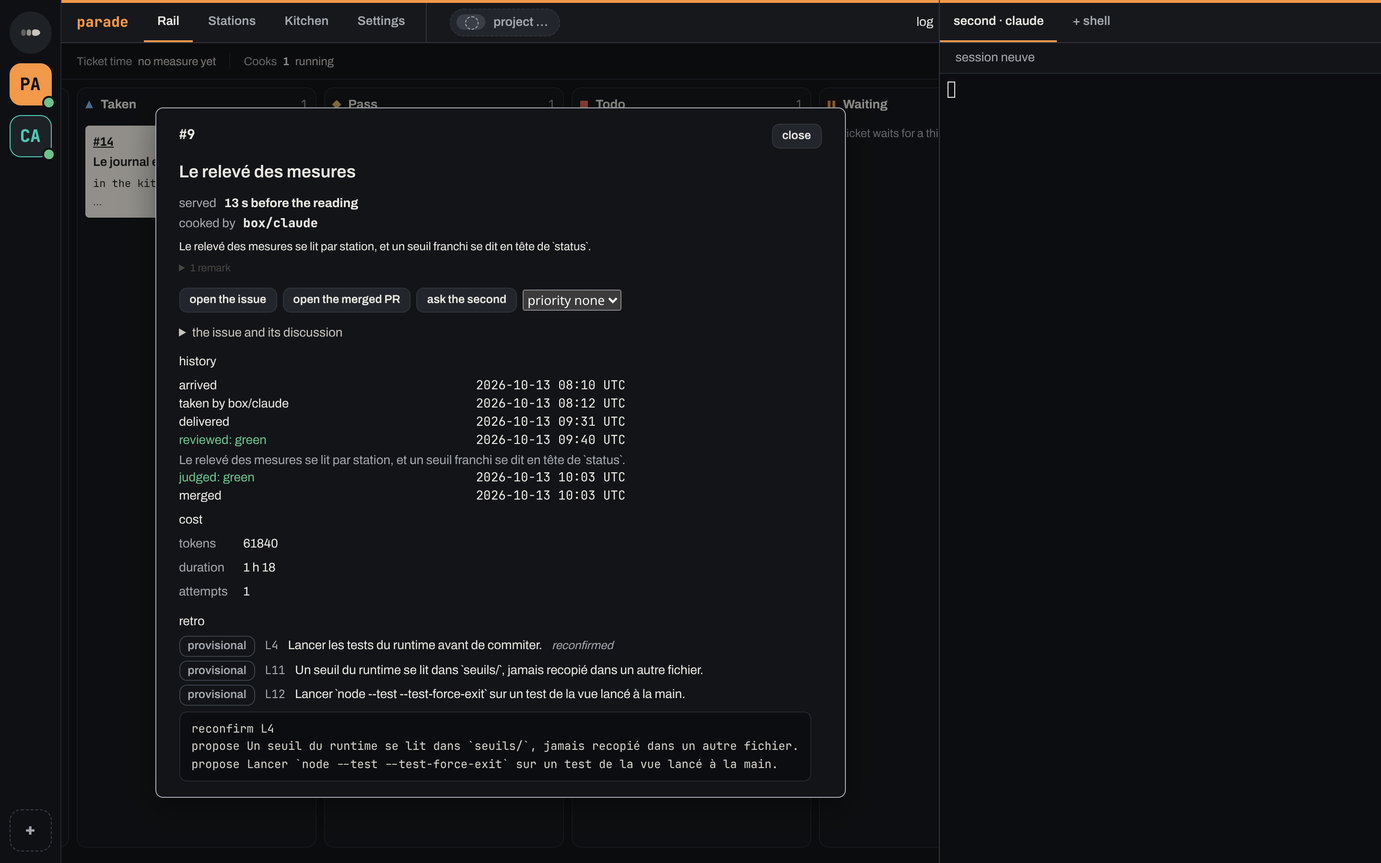
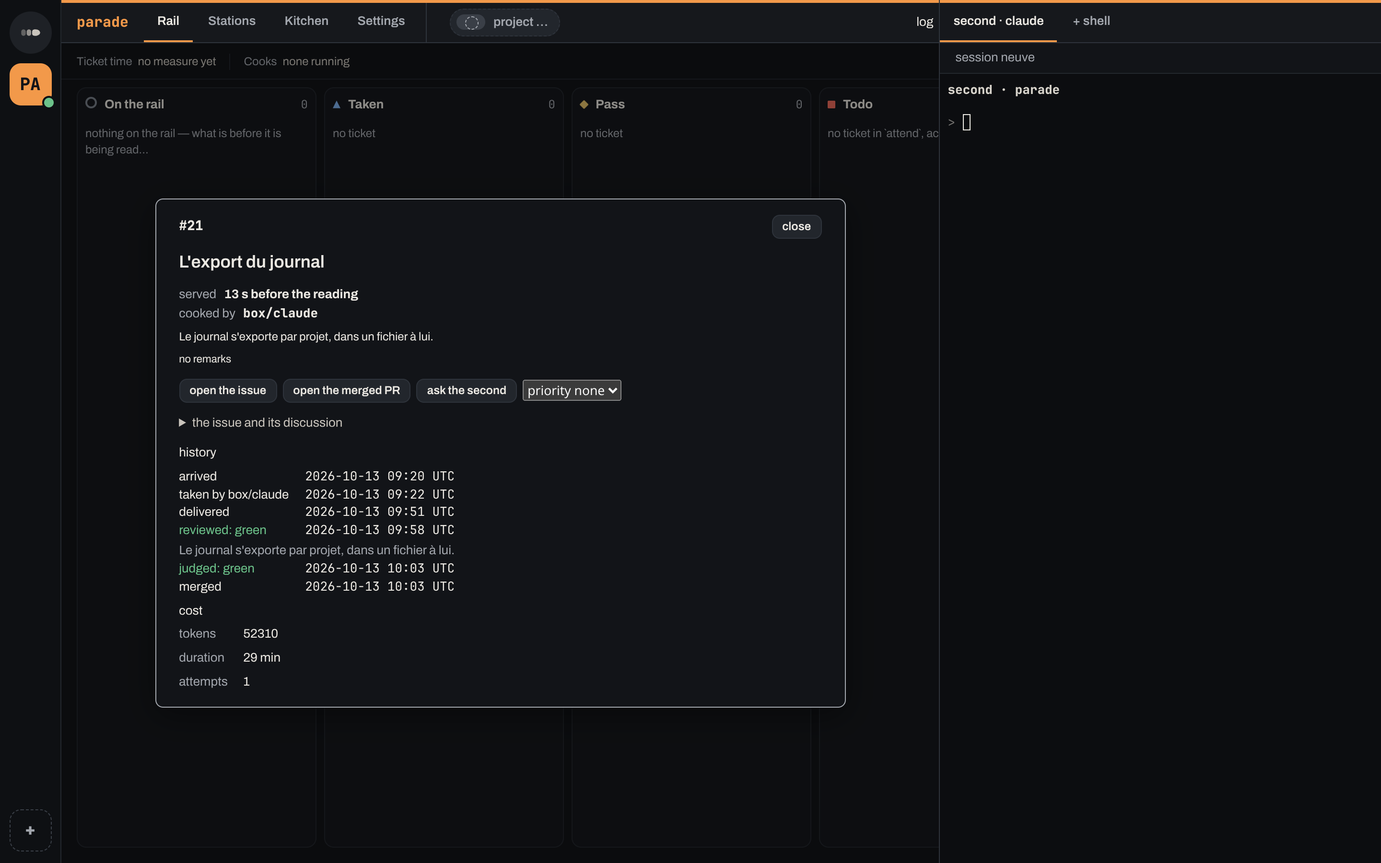
docs(#2875): demo sources — one ticket (#21) on one project through scenes 2 to 7, scene 7 captured, GitHub screens still to redo from a machine with full access

diff --git a/scripts/capture-ecran/ecrans/demo-commun.ts b/scripts/capture-ecran/ecrans/demo-commun.ts
@@ -1,0 +1,93 @@
+// L'histoire d'un seul ticket pour la vidéo de démonstration (ticket 2875, épique 1546) : #21 « L'export du journal »,
+// sur un seul projet, « parade ». Chaque étape de sa vie est un rendu de la box, mot pour mot : sur le rail, pris par un
+// cook, une question de produit pour le chef, repris par le cook, servi. Les écrans `demo-*.ts` ne font que les ouvrir.
+import type { Activite, Faits } from "../../../app/src/faits.ts";
+import type { Terminal } from "../../../app/src/terminaux.ts";
+import { configuration, cuisine, demarrage, type Donnees, type Etape, MAINTENANT, type Rendu } from "./commun.ts";
+import { PROJETS, RENDUS } from "./cuisine-figee.ts";
+
+const BASE = RENDUS.parade as Rendu;
+const TITRE = "L'export du journal";
+const ISSUE = "https://github.com/chef/parade/issues/21";
+const PR = "https://github.com/chef/parade/pull/24";
+const COOK = { ticket: 21, titre: TITRE, station: "box/claude" };
+export const SECOND: Terminal = { id: 1, projet: "parade", genre: "second", titre: "second · claude", note: "session neuve", arrete: false };
+const ECRAN_DU_SECOND_AU_REPOS = ["\x1b[1msecond · parade\x1b[0m", "", "\x1b[2m> \x1b[0m"].join("\r\n");
+export const PARADE_SEUL = [PROJETS[0]!];
+export const OUVRIR_PARADE: Etape = { cliquer: '#projets > button[title^="parade — "]' };
+
+const PRODUIT = {
+  type: "product",
+  question: "One journal export per project, or a single one for all projects?",
+  choix: [
+    { texte: "One per project: each project keeps its own file.", suite: "resume" },
+    { texte: "A single export, all projects together.", suite: "resume" },
+  ],
+  captures: null,
+};
+
+const ligne = (etat: string) => `  #21  ${etat}  ${TITRE}`;
+const status = (rail: string, lignes: string[], attend: string[] = [], cooks = "none running") =>
+  ["project    parade", "kitchen    open", "", ...attend, rail, ...lignes, "", `cooks      ${cooks}`, ""].join("\n");
+
+const faits = (surcharge: Partial<Faits>, compteurs: Partial<Faits["compteurs"]>): Faits =>
+  ({ ...BASE.facts, compteurs: { rail: 0, auTravail: 0, aLaPass: 0, attend: 0, livres24h: 0, ...compteurs }, rail: [], cooks: [], attend: [], livres: [], ...surcharge }) as Faits;
+
+const evenement = (type: string, at: string) => ({ seq: 100, at, type, ticket: 21 });
+const carte = (etat: string, activite: Activite | null = null) => ({ ticket: 21, etat, titre: TITRE, url: ISSUE, activite, attente: null });
+const depuis = "2026-10-13T10:02:11.000Z";
+
+// Sur le rail, une minute après son arrivée.
+export const EN_ATTENTE: Rendu = { ...BASE, facts: faits({ rail: [carte("en attente")], dernierEvenement: evenement("ticket.queued", "2026-10-13T10:03:12.000Z") }, { rail: 1 }), status: status("rail       1 queued", [ligne("queued  -  since 1 min")]) };
+
+// Pris par le cook de la box, qui écrit.
+export const PRIS: Rendu = {
+  ...BASE,
+  facts: faits({ rail: [carte("pris", { fait: "écrit", faitEn: "writing", cible: "app/src/export.ts", depuis })], cooks: [COOK], dernierEvenement: evenement("ticket.taken", "2026-10-13T10:02:11.000Z") }, { rail: 1, auTravail: 1 }),
+  status: status("rail       1 taken", [ligne("taken  -  by box/claude since 2 min, lease 28 min left")], [], "1 running"),
+};
+
+// Repris par le cook une fois la réponse du chef jouée : il lance les tests.
+export const REPRIS: Rendu = {
+  ...BASE,
+  facts: faits({ rail: [carte("pris", { fait: "teste", faitEn: "running tests", cible: "app/test", depuis })], cooks: [COOK], dernierEvenement: evenement("ticket.taken", "2026-10-13T10:03:02.000Z") }, { rail: 1, auTravail: 1 }),
+  status: status("rail       1 taken", [ligne("taken  -  by box/claude since 1 min, lease 29 min left")], [], "1 running"),
+};
+
+// La question de produit qui attend le chef.
+export const QUESTION: Rendu = {
+  ...BASE,
+  facts: faits(
+    { rail: [carte("en attente")], dernierEvenement: evenement("ticket.queued", "2026-10-13T09:04:12.000Z"), attend: [{ ticket: 21, titre: TITRE, url: ISSUE, decision: { quoi: "carte", motif: "product", cause: PRODUIT.question, pr: null }, carte: PRODUIT }] } as Partial<Faits>,
+    { rail: 1, attend: 1 },
+  ),
+  status: status(
+    "rail       1 queued",
+    [ligne("queued  -  since 1 h")],
+    ["attend     1 décision attend le chef depuis 1 h", `  #21  depuis 1 h  produit : ${PRODUIT.question} — choix : 1. ${PRODUIT.choix[0]?.texte} · 2. ${PRODUIT.choix[1]?.texte}`, "fin attend", ""],
+  ),
+};
+
+// Rien encore sur le rail : le ticket n'existe pas, le second le propose.
+export const VIDE: Rendu = { ...BASE, facts: faits({ dernierEvenement: null } as Partial<Faits>, {}), status: status("rail       empty", []) };
+
+// Servi : mergé par la pass, une demi-heure plus tard.
+export const SERVI: Rendu = {
+  ...BASE,
+  facts: faits(
+    { dernierEvenement: evenement("merge.done", "2026-10-13T10:03:58.000Z"), livres: [{ ticket: 21, titre: TITRE, url: ISSUE, livre: "2026-10-13T10:03:58.000Z", station: "box/claude", pr: PR, relecture: { resume: "Le journal s'exporte par projet, dans un fichier à lui.", constats: [] } }] } as Partial<Faits>,
+    { livres24h: 1 },
+  ),
+  status: status("rail       empty", []),
+};
+
+// Les données d'un écran de la démo : un seul projet, `parade`, lu dans ce rendu.
+export function donneesDe(rendu: Rendu, reponses: Record<string, unknown> = {}): Donnees {
+  const envois = cuisine({ parade: rendu });
+  return {
+    maintenant: MAINTENANT,
+    reponses: { demarrage: demarrage(configuration(PARADE_SEUL)), espace: [SECOND], ...reponses },
+    // Le terminal du second, au repos : son invite, rien d'autre.
+    envois: { ...envois, regarder: { ...envois.regarder, parade: [...(envois.regarder.parade ?? []), { sur: "surSortie", args: [SECOND.id, ECRAN_DU_SECOND_AU_REPOS] }] } },
+  };
+}

diff --git a/scripts/capture-ecran/test/capture.test.ts b/scripts/capture-ecran/test/capture.test.ts
@@ -9,7 +9,7 @@ import { tmpdir } from "node:os";
 import { join } from "node:path";
 import { describe, test } from "node:test";
 import { promisify } from "node:util";
-import { ecrans, fichierDe } from "../capture.ts";
+import { capturer, ecrans, fichierDe } from "../capture.ts";
 
 const lancer = promisify(execFile);
 const COMMANDE = join(import.meta.dirname, "..", "capture.ts");
@@ -64,6 +64,28 @@ describe("capturer un écran de l'app", { skip: SANS_NAVIGATEUR }, () => {
       await lancer(process.execPath, [COMMANDE, nom, sortie], { env });
       const { largeur, octets } = png(sortie);
       assert.ok(largeur > 0 && octets.length > 20_000, `${nom} : ${octets.length} octets`);
+    }
+  });
+
+  test("--densite 2 : un PNG deux fois plus large, sur la même fenêtre", async () => {
+    const { env, dossier } = doublures();
+    const sortie = join(dossier, "double.png");
+
+    await lancer(process.execPath, [COMMANDE, "espace-projet", sortie, "--densite", "2"], { env });
+
+    const { largeur, hauteur } = png(sortie);
+    assert.deepEqual([largeur, hauteur], [2880, 1800]);
+  });
+
+  test("l'étape defiler amène l'élément à l'écran : la capture change, et un sélecteur qui n'en trouve pas un seul échoue", async () => {
+    const tous = await ecrans();
+    const demo = tous.get("demo-telephone-carte");
+    assert.ok(demo !== undefined, "l'écran demo-telephone-carte existe");
+    const sans = { ...demo, etapes: demo.etapes.filter((etape) => !("defiler" in etape)) };
+    assert.ok(!(await capturer(demo)).equals(await capturer(sans)), "défilée ou non, la capture est la même");
+
+    for (const selecteur of [".absent-de-la-page", "button"]) {
+      await assert.rejects(capturer({ ...demo, etapes: [...sans.etapes, { defiler: selecteur }] }), /étape « defiler .+ » : \d+ élément\(s\) trouvé\(s\), il en faut un/, selecteur);
     }
   });
 
@@ -122,6 +144,12 @@ describe("la ligne de commande", () => {
       return true;
     });
     assert.equal(existsSync(sortie), false);
+  });
+
+  test("--densite n'accepte que 1 ou 2", async () => {
+    for (const valeur of ["3", "0", "x"]) {
+      await assert.rejects(lancer(process.execPath, [COMMANDE, "ajout", "/tmp/capture.png", "--densite", valeur]), (erreur: { code: number; stderr: string }) => erreur.code === 2 && /--densite attend 1 ou 2/.test(erreur.stderr), valeur);
+    }
   });
 
   test("un fichier de sortie qui n'est pas un .png est refusé", async () => {

diff --git a/scripts/capture-ecran/ecrans/demo-pass-fiche.ts b/scripts/capture-ecran/ecrans/demo-pass-fiche.ts
@@ -1,0 +1,41 @@
+// Scène 5 de la démo (ticket 2875), côté app : la fiche de #21, servi, ouverte par sa carte dans la colonne Served de
+// « parade » — son histoire, de l'arrivée sur le rail au merge de la pass, et son coût.
+import { gestesDeCarte } from "../../../app/src/gestes-fiche.ts";
+import { situationDe } from "../../../app/src/histoire.ts";
+import { discussionDe, type HistoireBrute, histoireDe } from "../../../app/test/aides/fiches-dites.ts";
+import { carteDe, type Ecran } from "./commun.ts";
+import { donneesDe, OUVRIR_PARADE, SERVI } from "./demo-commun.ts";
+
+const HISTOIRE: HistoireBrute = {
+  ticket: 21,
+  steps: [
+    { kind: "arrived", at: "2026-10-13T09:20:02.000Z" },
+    { kind: "taken", at: "2026-10-13T09:22:40.000Z", station: "box/claude" },
+    { kind: "delivered", at: "2026-10-13T09:51:05.000Z", run: "r21" },
+    { kind: "reviewed", at: "2026-10-13T09:58:12.000Z", verdict: "green", summary: "Le journal s'exporte par projet, dans un fichier à lui." },
+    { kind: "judged", at: "2026-10-13T10:03:40.000Z", verdict: "green" },
+    { kind: "merged", at: "2026-10-13T10:03:58.000Z", by: "pass" },
+  ],
+  cost: { attempts: 1, tokens: 52_310, durationMs: 1_740_000, incomplete: false },
+};
+
+const ISSUE = {
+  found: true,
+  issue: {
+    title: "L'export du journal",
+    state: "closed",
+    body: { author: "chef", at: "2026-10-13T09:19:00.000Z", body: "Le chef doit pouvoir **exporter le journal** d'un projet dans un fichier." },
+    comments: [],
+  },
+};
+
+export const ecran: Ecran = {
+  dit: "La démo, scène 5 : la fiche de #21, servi, ouverte par sa carte dans la colonne Served de « parade » — son histoire et son coût",
+  largeur: 1440,
+  hauteur: 900,
+  etapes: [OUVRIR_PARADE, { cliquer: "#rail .colonne[data-defile] li.bon:first-child" }],
+  donnees: () => {
+    const carte = carteDe(SERVI, "parade", 21);
+    return donneesDe(SERVI, { situation: situationDe(carte), gestesDeFiche: gestesDeCarte(carte), lireHistoire: histoireDe(HISTOIRE), lireDiscussion: discussionDe(ISSUE) });
+  },
+};

diff --git a/scripts/capture-ecran/ecrans/demo-second.ts b/scripts/capture-ecran/ecrans/demo-second.ts
@@ -1,0 +1,42 @@
+// Scène 2 de la démo (ticket 2875) : l'espace de « parade », son second qui a posé un plan et propose un seul ticket,
+// #21 « L'export du journal » : sous le terminal, un bouton par choix publié par son canal.
+import type { Proposition } from "../../../runtime/src/second-propositions/proposition.ts";
+import { type Ecran, MAINTENANT } from "./commun.ts";
+import { donneesDe, OUVRIR_PARADE, SECOND, VIDE } from "./demo-commun.ts";
+
+const ECRAN_DU_SECOND = [
+  "\x1b[1msecond · parade\x1b[0m",
+  "",
+  "> I want to export a project's journal to a file.",
+  "",
+  "  Plan: read the journal, write it out one file per project.",
+  "  Proposed ticket: \x1b[1mThe journal export\x1b[0m",
+  "  One export per project, or a single one for all projects?",
+  "",
+  "  A. One per project: each project keeps its own file",
+  "  B. A single export, all projects together",
+  "",
+  "\x1b[2m> \x1b[0m",
+].join("\r\n");
+const PROPOSITION: Proposition = {
+  kind: "choices",
+  choices: [
+    { value: "A", label: "One per project: each project keeps its own file" },
+    { value: "B", label: "A single export, all projects together" },
+  ],
+  id: "4f6d2c1e-0b7a-4d1f-9a43-2c5e8b1d7f60",
+  at: MAINTENANT,
+};
+
+export const ecran: Ecran = {
+  dit: "La démo, scène 2 : le second de « parade » pose un plan, propose un ticket (l'export du journal) et demande de choisir — un bouton par choix",
+  largeur: 1440,
+  hauteur: 900,
+  etapes: [OUVRIR_PARADE],
+  donnees: () => {
+    const base = donneesDe(VIDE, { propositionsDuSecond: { parade: PROPOSITION } });
+    const regarder = base.envois.regarder ?? {};
+    // Le second a écrit son plan : sa sortie remplace celle du repos.
+    return { ...base, envois: { ...base.envois, regarder: { ...regarder, parade: [...(regarder.parade ?? []).slice(0, -1), { sur: "surSortie", args: [SECOND.id, ECRAN_DU_SECOND] }] } } };
+  },
+};

diff --git a/scripts/capture-ecran/ecrans/demo-cook-stations.ts b/scripts/capture-ecran/ecrans/demo-cook-stations.ts
@@ -1,0 +1,15 @@
+// Scène 4 de la démo (ticket 2875) : l'onglet Cooks de « parade », sa seule station, la box, qui cuit #21.
+import type { Faits } from "../../../app/src/faits.ts";
+import type { Ecran } from "./commun.ts";
+import { donneesDe, OUVRIR_PARADE, PRIS } from "./demo-commun.ts";
+
+const station = { plafond: 2, ordinaires: false, bacASable: null, prendOrdinaires: true, arreteeDepuis: null, refus: null } as const;
+const FACTS = { ...PRIS.facts, stations: [{ ...station, station: "box/claude", distante: false, cuisson: "cooking", cooks: PRIS.facts.cooks }] } as Faits;
+
+export const ecran: Ecran = {
+  dit: "La démo, scène 4 : l'onglet Cooks de « parade », la box cuit #21",
+  largeur: 1440,
+  hauteur: 430,
+  etapes: [OUVRIR_PARADE, { cliquer: "#onglets-du-projet button:nth-child(3)" }, { cliquer: "#onglets-cuisine button:nth-child(2)" }],
+  donnees: () => donneesDe({ ...PRIS, facts: FACTS }),
+};

diff --git a/scripts/capture-ecran/ecrans/demo-telephone-envoyee.ts b/scripts/capture-ecran/ecrans/demo-telephone-envoyee.ts
@@ -1,0 +1,13 @@
+// Scène 7 de la démo (ticket 2875) : le chef touche le premier choix de la carte de #21, sur le téléphone. Le process
+// principal poste sa réponse sur l'issue (`repondreCarte` rend le commentaire) : la carte rappelle la réponse et dit
+// qu'elle attend la cuisine.
+import type { Ecran } from "./commun.ts";
+import { CARTE, ecran as carte } from "./demo-telephone-carte.ts";
+import { donneesDe, QUESTION } from "./demo-commun.ts";
+
+export const ecran: Ecran = {
+  ...carte,
+  dit: "La démo, scène 7 : le premier choix de la carte de #21 touché sur le téléphone — la réponse est postée, la carte dit qu'elle attend la cuisine",
+  etapes: [...carte.etapes.slice(0, 1), { cliquer: `${CARTE} .choix-carte > :first-child .choix` }, { defiler: CARTE }],
+  donnees: () => donneesDe(QUESTION, { repondreCarte: { commentaire: 9001 } }),
+};

diff --git a/scripts/capture-ecran/ecrans/demo-telephone-carte.ts b/scripts/capture-ecran/ecrans/demo-telephone-carte.ts
@@ -1,0 +1,14 @@
+// Scène 6 de la démo (ticket 2875) : la carte de #21 dans TODO de « parade », à la largeur d'un téléphone (412 × 915),
+// la rangée des colonnes amenée sur elle.
+import type { Ecran } from "./commun.ts";
+import { donneesDe, OUVRIR_PARADE, QUESTION } from "./demo-commun.ts";
+
+export const CARTE = '.carte-todo[data-sorte="product"]';
+
+export const ecran: Ecran = {
+  dit: "La démo, scène 6 : la carte de #21 à la largeur d'un téléphone — sa question de produit, un bouton par choix, le champ du texte libre",
+  largeur: 412,
+  hauteur: 915,
+  etapes: [OUVRIR_PARADE, { defiler: CARTE }],
+  donnees: () => donneesDe(QUESTION),
+};

diff --git a/scripts/capture-ecran/ecrans/demo-cook-reprise.ts b/scripts/capture-ecran/ecrans/demo-cook-reprise.ts
@@ -1,0 +1,11 @@
+// Scène 7 de la démo (ticket 2875), côté poste : la réponse du chef jouée, #21 repris par le cook, qui lance les tests.
+import type { Ecran } from "./commun.ts";
+import { donneesDe, OUVRIR_PARADE, REPRIS } from "./demo-commun.ts";
+
+export const ecran: Ecran = {
+  dit: "La démo, scène 7 : le rail de « parade » une fois la réponse jouée, #21 repris par un cook",
+  largeur: 1440,
+  hauteur: 900,
+  etapes: [OUVRIR_PARADE],
+  donnees: () => donneesDe(REPRIS),
+};

diff --git a/scripts/capture-ecran/ecrans/demo-rail-file.ts b/scripts/capture-ecran/ecrans/demo-rail-file.ts
@@ -1,0 +1,11 @@
+// Scène 3 de la démo (ticket 2875) : #21 « L'export du journal » vient d'arriver sur le rail de « parade », en attente.
+import type { Ecran } from "./commun.ts";
+import { donneesDe, EN_ATTENTE, OUVRIR_PARADE } from "./demo-commun.ts";
+
+export const ecran: Ecran = {
+  dit: "La démo, scène 3 : le rail de « parade », #21 en attente, seul ticket",
+  largeur: 1440,
+  hauteur: 900,
+  etapes: [OUVRIR_PARADE],
+  donnees: () => donneesDe(EN_ATTENTE),
+};

diff --git a/scripts/capture-ecran/ecrans/demo-cook-rail.ts b/scripts/capture-ecran/ecrans/demo-cook-rail.ts
@@ -1,0 +1,11 @@
+// Scène 4 de la démo (ticket 2875) : #21 pris par le cook de la box, qui écrit `app/src/export.ts`.
+import type { Ecran } from "./commun.ts";
+import { donneesDe, OUVRIR_PARADE, PRIS } from "./demo-commun.ts";
+
+export const ecran: Ecran = {
+  dit: "La démo, scène 4 : la colonne Taken de « parade », #21 pris par le cook de la box qui écrit un fichier",
+  largeur: 1440,
+  hauteur: 900,
+  etapes: [OUVRIR_PARADE],
+  donnees: () => donneesDe(PRIS),
+};

diff --git a/docs/marketing/demo/README.md b/docs/marketing/demo/README.md
@@ -6,47 +6,55 @@ Script check (done before capturing): `docs/marketing/demo-script.md` exists and
 
 ## How the app screens were made
 
-With `scripts/capture-ecran/` (headless Chromium, the app's real view in `app/src/vue/`, frozen data, no `claude`, no box, no network), at 2x pixel density (`--densite 2`, an option added to that tool for this ticket). The frozen data is the tool's one project, `parade`. Nothing under `app/` or `runtime/` was modified.
+With `scripts/capture-ecran/` (headless Chromium, the app's real view in `app/src/vue/`, frozen data, no `claude`, no box, no network), at 2x pixel density (`--densite 2`, an option added to that tool for this ticket). Nothing under `app/` or `runtime/` was modified.
 
-Limit, stated plainly: the frozen data holds several tickets of `parade` (#12 *Validation SIRET*, #14 *Le journal en ajout seul*, #21 *L'export du journal*, #30 *La pass verte*), not one ticket followed from scene to scene. The screens share one project and its believable names; they do not follow a single ticket through the whole story. No screen shows `test`, `foo` or a dev path.
+**One project, one ticket.** The frozen data of the demo (`scripts/capture-ecran/ecrans/demo-commun.ts`) holds a single project, `parade`, and a single ticket, **#21 "L'export du journal"**, followed through its life: proposed by the second, queued on the rail, taken by the cook of `box/claude`, a product question for the chef, the answer, the cook back at work, served. No other ticket and no other project is on any screen. No screen shows `test`, `foo` or a dev path.
+
+Two things to know when cutting the video:
+
+- The script's scene 5 (the pass merges) comes before scene 6 (the phone asks). The captures keep #21 for both, as one ticket was asked for: in the data, #21 asks its product question before it is served. The script says "next ticket" for scene 6: the motion design can say it, the card on screen is the same one.
+- The cook's activity line says `writing app/src/export.ts · 2 min` and the history of the served ticket carries real-looking times, but they are frozen data, not a recording.
 
 ## Files
 
-PNG, 2x pixel density (2880 px wide for the desktop screens, 824 px wide for the phone one).
+PNG, 2x pixel density (2880 px wide for the desktop screens, 824 px wide for the phone ones).
 
 | File | Scene | Caption |
 |---|---|---|
-| `2-1-second-choose.png` | 2 | The second, in its terminal on `parade`, asks the chef to choose between three ways forward, one button each. |
-| `3-1-rail-board.png` | 3 | The rail of `parade` in the app: tickets in Taken, Pass and Todo (the "On the rail" column is scrolled out of view to the left). |
-| `4-1-cook-activity.png` | 4 | The Taken column of `parade`: each cook says what it is doing and for how long; the pass says it is running the gates. |
-| `4-2-cook-stations.png` | 4 | The cooks page of `parade`: one block per station, with its cooks' tickets in progress. |
-| `5-1-pass-served-ticket.png` | 5 | The ticket card of a served ticket (#9): its history, cost and the lessons its cook wrote. App side of scene 5 only. |
-| `6-1-phone-todo-card.png` | 6 | The TODO card of #21 at phone width (412 px): the product question, one button per choice, a free-text field. |
+| `2-1-second-proposes-ticket.png` | 2 | The second, in its terminal on `parade`: the chef's request, a short plan, one proposed ticket (the journal export) and a one-click choice. |
+| `3-1-rail-queued.png` | 3 | The rail of `parade`: #21 "L'export du journal" in the "On the rail" column, queued. |
+| `4-1-cook-writing.png` | 4 | The Taken column: #21 taken, its cook says what it does and for how long (`writing app/src/export.ts · 2 min`). |
+| `4-2-cook-station.png` | 4 | The Cooks page of `parade`: its station `box/claude` is cooking, #21 under it. |
+| `5-1-pass-served-ticket.png` | 5 | The card of #21 once served: arrived, taken, delivered, reviewed green, judged green, merged by the pass, and its cost. App side of scene 5 only. |
+| `6-1-phone-todo-card.png` | 6 | The TODO card of #21 at phone width (412 px): the one product question, one button per choice, a free-text field. |
+| `7-1-phone-answer-sent.png` | 7 | The same card after a tap on the first choice: it recalls the answer and says `sent, waiting for the kitchen`. |
+| `7-2-rail-cook-resumed.png` | 7 | Back on the laptop: #21 taken again, the cook is running the tests. |
 
-Total weight of the folder: 1.1 MB (1,144,995 bytes before this README was rewritten), under the 15 MB limit.
+Total weight of the folder as delivered, this README included: 1001105 bytes (0.95 MiB), under the 15 MB limit.
 
 ## Missing captures
 
 | Scene | What is missing | Why | What it would need |
 |---|---|---|---|
 | 1 Hook, 8 Close | the footage and the logo/URL | not screens of the app; filmed or drawn outside the repo | n/a |
-| 2 | the terminal with the second proposing a ticket (script: plan + one proposed ticket) | no capture screen shows that exchange; `second-choix` is the nearest one and is delivered | a new frozen-data screen in `scripts/capture-ecran/ecrans/` |
 | 3 | the GitHub issue list with the ticket's labels | GitHub screens, see below | n/a |
 | 5 | the pull request turning green, the review verdict, the merge, the closed issue | GitHub screens, see below | n/a |
-| 7 | the answer gesture and its confirmation on the phone | the tool's frozen data answers a tap on a choice with « nothing was sent: this project has no station » (captured, judged unusable, not delivered), and its `todo-carte-envoyee` / `todo-carte-repondue` screens render the same pixels as the unanswered card on this station | a fix to the capture fixtures in `scripts/capture-ecran/` (data that gives the project a station, or a working sent/played state); no change under `app/` or `runtime/` |
+| 6, 7 | the lock-screen notification and the phone's own system UI | not the app; the phone's screen recording, outside the repo | n/a |
 
-## GitHub screens: not captured
+## GitHub screens: not captured, to redo from a machine with full access
 
-The ticket chosen by the chef (comment of 2026-11-08) is [benomite/brigade#2746](https://github.com/benomite/brigade/issues/2746) "Mention the chef on GitHub on each TODO card", served by [PR #2765](https://github.com/benomite/brigade/pull/2765).
+The ticket chosen by the chef (comment of 2026-11-08) is [benomite/brigade#2746](https://github.com/benomite/brigade/issues/2746) "Mention the chef on GitHub on each TODO card", served by [PR #2765](https://github.com/benomite/brigade/pull/2765). It exists and is public, so these screens **are to be captured**: only this station cannot do it.
 
-The page HTML is reachable from this station, but the egress proxy refuses `github.githubassets.com` (HTTP 403, header `x-brigade-refus`), where GitHub serves its CSS and scripts. A page rendered without them is unstyled and is not what GitHub looks like, so no screenshot was taken. Missing, to capture on a machine with full access to github.com (2x, desktop width):
+The page HTML is reachable from this station (HTTP 200 on the issue), but its egress proxy refuses `github.githubassets.com` (no answer), where GitHub serves its CSS and scripts. A page rendered without them is unstyled and is not what GitHub looks like, so no screenshot was taken. To capture on a machine that reaches github.com, at 2x and desktop width:
 
 - the issue: https://github.com/benomite/brigade/issues/2746 (scene 3, scene 5)
 - the pull request, checks green: https://github.com/benomite/brigade/pull/2765 (scene 5)
 - the review verdict and the merge, on the same PR page, in its conversation (scene 5)
 
-Nobody created, commented on or published anything on GitHub for this.
+Nobody created, commented on or published anything on GitHub for this. Note that these GitHub screens show #2746, while the app screens show the demo ticket #21: the video must not claim they are the same ticket.
 
 ## Phone source (scenes 6 and 7)
 
-The app at phone width (412 × 915 CSS px, rendered at 2x by the headless browser from the app's real view), not the Android app: no Android build or emulator is available on this station, and the chef's answer of 2026-11-08 decided that scenes 6 and 7 are the app's screens at phone width. The capture scrolls the columns row to the TODO card, as a finger would.
+The app at phone width (412 × 915 CSS px, rendered at 2x by the headless browser from the app's real view), not the Android app: no Android build or emulator is available on this station, and the chef's answer of 2026-11-08 decided that scenes 6 and 7 are the app's screens at phone width. The capture scrolls the columns row to the TODO card, as a finger would. In `7-1`, the tap is a real click on the first choice, played in the view; the station's answer (the posted comment) is the frozen data's, since no station runs here.
+
+The card's `played by the kitchen` state is not captured: at this commit the app no longer fills it (nothing sets `envoi` on a TODO card since #2061), so the tool's older `todo-carte-repondue` screen renders the unanswered card. `7-2` shows the kitchen's carry on from the rail instead.

diff --git a/scripts/capture-ecran/README.md b/scripts/capture-ecran/README.md
@@ -136,7 +136,8 @@ compare que deux captures du même navigateur.
 | `stations-reglages` | L'onglet Stations de `parade` (#2488), qui cuit sur ce Mac : pour chacune de ses trois stations — `mac/claude` sur ce poste, `pc/claude` et `studio/claude` ailleurs —, son plafond de cooks, ses capacités en cases, ses tickets ordinaires et si elle sert le projet, chacun avec son niveau ; « Save » grisé tant que rien n'a changé |
 | `rail-file` | La file de `parade`, quatre tickets sur le rail dans l'ordre où le runtime les sert, chacun avec sa priorité, #21 en tête qui dit pourquoi il ne part pas (#1347) |
 | `todo-cartes` | La file de `parade` avec deux cartes dans TODO (#1281) : #12, une validation de design — sa question, ses captures avant et après sur la carte, un bouton par choix, le champ du texte libre et « send » — et #21, un choix de produit sans écran, sans zone de captures |
-| `telephone-todo-cartes` | La carte de #21 dans TODO de `parade` à la largeur d'un téléphone (412 × 915), la rangée des colonnes amenée sur elle par l'étape `defiler` (#2875) |
+| `demo-second`, `demo-rail-file`, `demo-cook-rail`, `demo-cook-stations`, `demo-cook-reprise`, `demo-pass-fiche` | La démo (#2875), sur un seul projet, `parade`, et un seul ticket, #21 « L'export du journal » (`ecrans/demo-commun.ts` porte ses étapes) : le second qui le propose ; sur le rail, en attente ; pris par le cook de la box ; l'onglet Cooks où la box le cuit ; repris par le cook une fois la réponse du chef jouée ; sa fiche, servi |
+| `demo-telephone-carte`, `demo-telephone-envoyee` | La même démo à la largeur d'un téléphone (412 × 915), la rangée des colonnes amenée sur la carte de #21 par l'étape `defiler` : sa question de produit, un bouton par choix ; puis le premier choix touché — le geste `repondreCarte` rend le commentaire posté, la carte dit `sent, waiting for the kitchen` |
 | `todo-carte-repondue` | La même, la réponse à #21 jouée par la cuisine (#1841) : le tableau relu porte la réponse `**Done**` de la box sous le geste — la carte dit `played by the kitchen`, la ligne de la box au survol, son bord éteint, ni choix ni champ |
 | `todo-carte-pas-jouee` | La même, la réponse à #21 que la cuisine n'a pas jouée (#1841) : le tableau relu porte la réponse `**Not done**` de la box — la carte dit `not played by the kitchen: <raison>` en une ligne, la ligne de la box au survol, et rend ses choix et son champ |
 | `todo-carte-envoyee` | La même, l'app redémarrée pendant que la réponse à #21 attend la cuisine (#1841) : rien n'a été cliqué, seul le tableau relu porte le geste sans réponse de la box — la carte le dit envoyé, en attente de la cuisine, jamais sans réponse |
